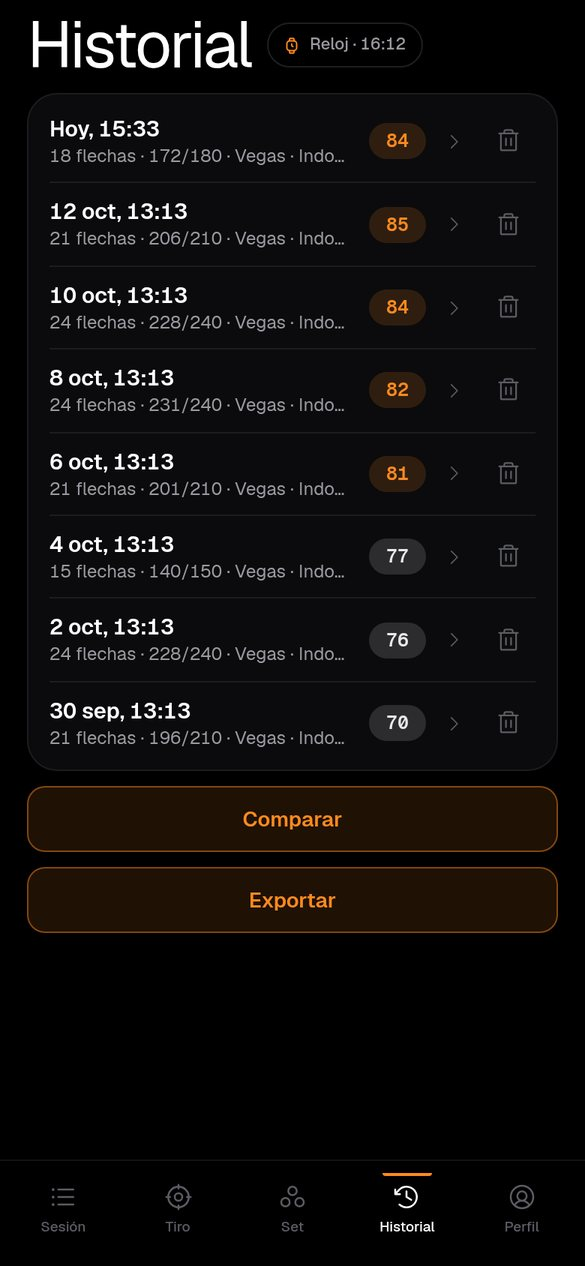
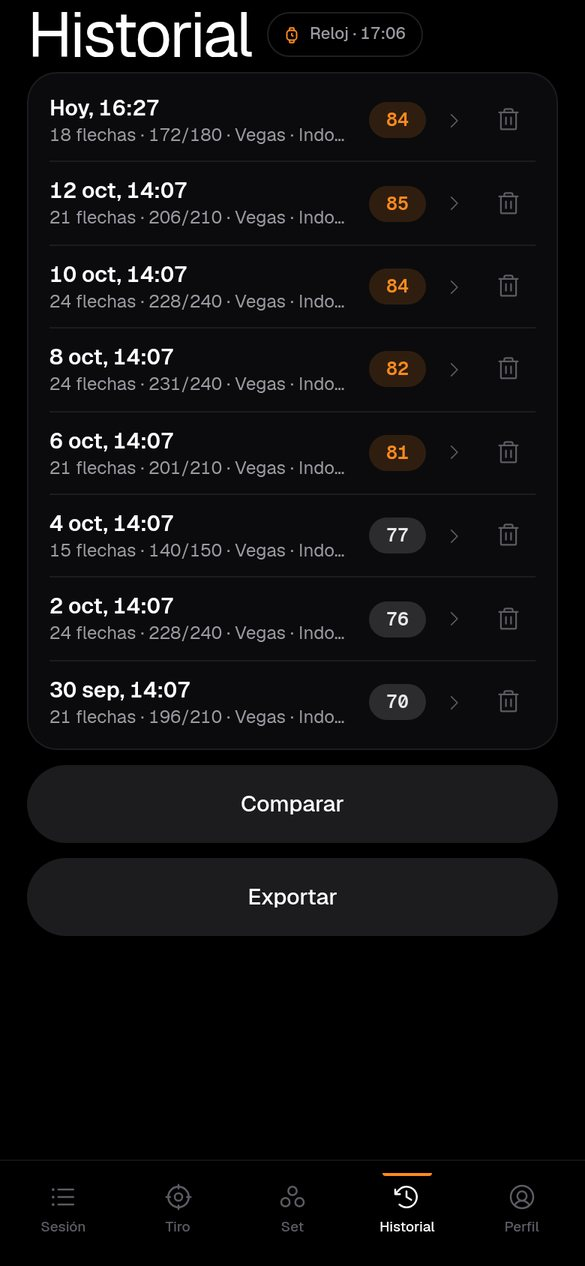
ArcheryWatch: Distribución sin % y a tamaño completo, filas de set sin Puntuable y valor en anillo fino, botones sólidos grises, Actual en la fila de la fecha — 4.52 (110)

diff --git a/mobile/index.html b/mobile/index.html
@@ -44,8 +44,10 @@
 
   /* Cabecera */
   header { display:flex; flex-direction:column; align-items:stretch; gap:0; padding:8px 18px 6px; flex-shrink:0; }
-  header > small { display:block; font-size:11px; font-weight:500; letter-spacing:.14em; text-transform:uppercase; color:var(--txt-2); margin:0 0 4px; line-height:1.2; }
-  header > small:empty { display:none; }
+  .dateRow { display:flex; align-items:center; justify-content:space-between; gap:10px; margin:0 0 6px; }
+  .dateRow:has(> small:empty):has(> #returnCurrent[style*="none"]) { display:none; }
+  .dateRow small { display:block; font-size:11px; font-weight:500; letter-spacing:.14em; text-transform:uppercase; color:var(--txt-2); line-height:1.2; }
+  .dateRow small:empty { display:none; }
   .headRow { display:flex; align-items:center; gap:10px; min-height:30px; }
   header h1 { flex:0 1 auto; min-width:0; margin:0; font-size:43px; font-weight:400; letter-spacing:-.03em; line-height:30px; height:30px; display:flex; align-items:center; }
   header h1 span { display:block; line-height:30px; height:30px; white-space:nowrap; overflow:hidden; text-overflow:ellipsis; }
@@ -68,10 +70,10 @@
                   margin-right:7px; vertical-align:1px; }
   @media (prefers-reduced-motion:no-preference) { #live::before { animation:pulse 2s ease-in-out infinite; } }
   @keyframes pulse { 50% { opacity:.35; } }
-  #returnCurrent { display:none; align-self:flex-start; margin:0 16px 10px; background:var(--surface-2); border:1px solid var(--line-2);
-                   border-radius:12px; color:var(--txt); font-size:13px; font-weight:500; padding:8px 12px; }
+  #returnCurrent { display:none; align-items:center; flex-shrink:0; height:30px; box-sizing:border-box; margin:0; background:transparent; border:1px solid var(--line-2);
+                   border-radius:999px; color:var(--txt); font-size:11px; font-weight:500; line-height:1; padding:0 11px 0 9px; white-space:nowrap; }
   #returnCurrent { --icon:var(--i-back); }
-  #returnCurrent::before { content:""; display:inline-block; width:14px; height:14px; margin-right:7px; vertical-align:-2px; background:var(--acc);
+  #returnCurrent::before { content:""; display:inline-block; width:13px; height:13px; margin-right:6px; vertical-align:-2px; background:var(--acc);
     -webkit-mask:var(--icon) center/contain no-repeat; mask:var(--icon) center/contain no-repeat; }
 
   /* Contenido */
@@ -131,11 +133,12 @@
   #play { --icon:var(--i-play); }
   #play.playing { --icon:var(--i-stop); background:var(--surface-2); color:var(--acc); border:1px solid var(--line-2); box-shadow:none; }
   #play::before { content:""; width:15px; height:15px; background:currentColor; -webkit-mask:var(--icon) center/contain no-repeat; mask:var(--icon) center/contain no-repeat; }
-  .btnSecondary, #calib { display:flex; align-items:center; justify-content:center; width:100%; min-height:44px; background:var(--acc-soft);
-    color:var(--acc); border:1px solid var(--acc-line); border-radius:12px; font-size:14px; font-weight:600; }
-  .deleteAction { background:none; color:var(--txt-3); border:1px solid var(--line); border-radius:12px; padding:12px; font-size:13px; font-weight:500; }
+  .btnSecondary, #calib { display:flex; align-items:center; justify-content:center; gap:8px; width:100%; min-height:52px; background:#1c1c1e;
+    color:#fff; border:none; border-radius:26px; font-size:15px; font-weight:500; letter-spacing:-.005em; box-shadow:none; }
+  .btnSecondary:active, #calib:active { background:#2a2a2d; }
+  .deleteAction { background:none; color:var(--txt-3); border:1px solid var(--line); border-radius:26px; min-height:52px; padding:0 18px; font-size:14px; font-weight:500; }
   .deleteAction:active { color:var(--danger); border-color:rgba(239,90,90,.4); }
-  .deleteSession { flex-shrink:0; width:36px; height:36px; padding:0; display:grid; place-items:center; border-color:transparent; }
+  .deleteSession { flex-shrink:0; width:36px; height:36px; min-height:0; border-radius:50%; padding:0; display:grid; place-items:center; border-color:transparent; }
   .deleteSession svg { width:18px; height:18px; }
 
   /* Métricas */
@@ -269,10 +272,11 @@
   .mini { display:flex; gap:3px; align-items:flex-end; height:22px; min-width:0; }
   .mini i { width:7px; border-radius:2px; background:rgba(255,255,255,.28); }
   .setVal { font:600 28px/1 var(--num); text-align:right; }
-  .trendRow { width:100%; display:grid; grid-template-columns:minmax(52px,max-content) minmax(0,1fr) auto 44px; gap:8px; align-items:center; min-height:48px; padding:10px 14px; background:none; border:0; border-top:1px solid var(--line); text-align:left; }
+  .trendRow { width:100%; display:grid; grid-template-columns:minmax(52px,max-content) minmax(0,1fr) auto 44px; gap:8px; align-items:center; min-height:44px; padding:8px 14px; background:none; border:0; border-top:1px solid var(--line); text-align:left; }
   .trendRow:last-child { border-bottom:0; }
-  .trendLabel { font-size:13px; }
-  .trendLabel small { display:block; color:var(--txt-3); font-size:11px; }
+  .trendLabel { display:flex; align-items:center; gap:8px; font:500 12px/1 var(--font); color:var(--txt-3); font-variant-numeric:tabular-nums; }
+  .trendLabel .trendScore { width:24px; height:24px; box-sizing:border-box; border-radius:50%; border:1px solid var(--line-2); display:grid; place-items:center; font:600 13px/1 var(--num); color:var(--txt-2); }
+  .trendLabel .trendScore.hi { color:var(--acc); border-color:color-mix(in srgb, var(--acc) 45%, transparent); }
   .trendScore { font-family:var(--num); font-size:16px; font-weight:600; color:var(--acc); }
   .trendMeta { font:400 11.5px var(--font); color:var(--txt-3); text-align:right; white-space:nowrap; }
   .trendRow[aria-current="true"] .trendLabel { color:var(--txt); }
@@ -495,7 +499,7 @@
 </head>
 <body>
 <header>
-  <small id="subtitle"></small>
+  <div class="dateRow"><small id="subtitle"></small><button id="returnCurrent" onclick="backToCurrent()">Actual</button></div>
   <div class="headRow">
   <h1><span id="title">Sesión</span></h1>
   <span id="link" data-state="off">Sin reloj</span>
@@ -506,7 +510,6 @@
   </div>
 </header>
 <span id="live">En vivo</span>
-<button id="returnCurrent" onclick="backToCurrent()">Actual</button>
 <main id="vShot">
   <div class="empty emptyState"><svg viewBox="0 0 256 256" fill="currentColor" aria-hidden="true"><path d="M232,120h-8.34A96.14,96.14,0,0,0,136,32.34V24a8,8,0,0,0-16,0v8.34A96.14,96.14,0,0,0,32.34,120H24a8,8,0,0,0,0,16h8.34A96.14,96.14,0,0,0,120,223.66V232a8,8,0,0,0,16,0v-8.34A96.14,96.14,0,0,0,223.66,136H232a8,8,0,0,0,0-16Zm-96,87.6V200a8,8,0,0,0-16,0v7.6A80.15,80.15,0,0,1,48.4,136H56a8,8,0,0,0,0-16H48.4A80.15,80.15,0,0,1,120,48.4V56a8,8,0,0,0,16,0V48.4A80.15,80.15,0,0,1,207.6,120H200a8,8,0,0,0,0,16h7.6A80.15,80.15,0,0,1,136,207.6ZM128,88a40,40,0,1,0,40,40A40,40,0,0,0,128,88Zm0,64a24,24,0,1,1,24-24A24,24,0,0,1,128,152Z"/></svg><b>Sin flechas</b></div>
   <div class="top3">
@@ -1017,7 +1020,7 @@ function render() {
   if (anim != null && (view !== 'Shot' || playbackKey !== shotViewKey())) stopPlayback();
   ['Shot', 'Set'].forEach(v => document.getElementById('v' + v).dataset.empty = !data?.shots.length);
   document.getElementById('deleteCurrent').hidden = !data?.shots.length;
-  document.getElementById('returnCurrent').style.display = historyMode ? 'block' : 'none';
+  document.getElementById('returnCurrent').style.display = historyMode ? 'inline-flex' : 'none';
   document.getElementById('prev').disabled = document.getElementById('next').disabled = !data?.shots.length;
   document.getElementById('setbar').innerHTML = '';
   const setHead = document.getElementById('setHead');
@@ -2349,12 +2352,12 @@ function drawTrend(S) {
   const rows=S.map((g,si)=>{const name=setLabel(S,si);return g.map((i,j)=>{
     const s=data.shots[i], v=values[i], valid=Number.isFinite(v), label=(s.candidate?'Candidato':'Flecha')+' '+(j+1);
     const marked=!s.candidate && s.result && Score.points(s.result.value) != null ? s.result.value : '';
-    const scoreBit=anyValue ? `<b class="trendScore">${marked || '·'}</b>` : '';
+    const scoreBit=anyValue ? `<b class="trendScore${/^(X|10|11)$/.test(marked) ? ' hi' : ''}">${marked || '·'}</b>` : '';
     const sec = s.draw_ms != null ? esNum((s.draw_ms + 1200) / 1000, 1) + ' s' : '';
     const rad = aimRadius(s); const radTxt = rad == null ? '' : esNum(rad, 1) + '°';
     const meta = [sec, radTxt].filter(Boolean).join(' · ');
     const phaseName = s.phase === 'warm' ? 'Calentamiento' : s.phase === 'score' ? 'Puntuable' : '';
-    const phaseBit = phaseName ? `<small>${phaseName}</small>` : '';
+    const phaseBit = '';
     const tAttr = Number.isFinite(Number(s.t_ms)) ? ` data-t="${Number(s.t_ms)}"` : '';
     const aria=`${name}, ${label}${marked ? ', valor ' + marked : ''}${phaseName ? ', ' + phaseName : ''}, ${valid ? Math.round(v) + (candidates ? ' mG' : ' de estabilidad') : 'sin estabilidad'}`;
     return `<button class="trendRow" data-shot="${i}"${tAttr} aria-current="${i===cur}" aria-label="${aria}" style="--c:${barOf(v)};--n:${numOf(v)}">`+

diff --git a/mobile/studio.js b/mobile/studio.js
@@ -2333,7 +2333,6 @@ function studioDistLegend(ctx, x, y, w, dist, S, perRow, rowH, px) {
     ctx.fill();
     const kw = studioText(ctx, d.v, lx + 23, ly, studioF(500, Math.round(px * 0.72)), S.soft);
     const cw = studioText(ctx, String(d.n), lx + 23 + kw + 9, ly, S.num(px), S.ink);
-    if (cellW > 175) studioText(ctx, Math.round(d.n / total * 100) + '%', lx + 23 + kw + cw + 12, ly, studioF(500, Math.round(px * 0.62)), S.soft);
   });
 }
 function studioDonut(ctx, cx, cy, R, lw, dist, S) {
@@ -2479,29 +2478,31 @@ const studioWidgetPaint = {
       return;
     }
     if (variant === 'donut') {
-      const D = Math.min(b.h - (top - b.y) - 8, b.size === 'wide' ? b.w * 0.34 : b.w * 0.48);
-      const R = D / 2, lw = Math.max(12, R * 0.22);
-      const cx = b.x + R, cy = top + 10 + R;
+      const avail = b.y + b.h - top - 4;
+      const D = Math.max(80, Math.min(avail, b.w * (b.size === 'wide' ? 0.42 : 0.5)));
+      const R = D / 2, lw = Math.max(12, R * 0.2);
+      const cx = b.x + R, cy = top + avail / 2;
       studioDonut(ctx, cx, cy, R - lw / 2, lw, dist, S);
-      const npx = Math.round(R * 0.58);
-      studioText(ctx, String(total), cx, cy + npx * 0.16, S.num(npx), S.ink, 0, 'center');
-      studioText(ctx, 'FLECHAS', cx, cy + npx * 0.16 + Math.max(24, R * 0.26), studioF(500, Math.max(17, Math.round(R * 0.15))), S.soft, 2.5, 'center');
-      const cols = b.size === 'wide' && dist.length > 3 ? 2 : 1;
-      const perCol = Math.ceil(dist.length / cols);
-      const lx = b.x + D + (b.size === 'wide' ? 40 : 28);
-      const colW = (b.x + b.w - lx) / cols;
-      const rowH = Math.min(44, (D - 4) / perCol);
-      const px = Math.round(Math.min(32, rowH * 0.62));
-      const y0 = cy - (perCol - 1) * rowH / 2 + px * 0.32;
+      const npx = Math.round(R * 0.62);
+      studioText(ctx, String(total), cx, cy + npx * 0.2, S.num(npx), S.ink, 0, 'center');
+      studioText(ctx, 'FLECHAS', cx, cy + npx * 0.2 + Math.max(22, R * 0.28), studioF(500, Math.max(15, Math.round(R * 0.14))), S.soft, 2.5, 'center');
+      const lx = b.x + D + Math.max(28, b.w * 0.06);
+      const room = b.x + b.w - lx;
+      const n = Math.max(1, dist.length);
+      const cellW = room / n;
+      const px = Math.round(Math.max(26, Math.min(D * 0.42, cellW * 0.5, 64)));
+      const kpx = Math.round(Math.max(15, px * 0.42));
+      const blockH = kpx + 12 + px * 0.74;
+      const ky = cy - blockH / 2 + kpx * 0.8, vy = cy + blockH / 2;
       dist.forEach((d, i) => {
-        const x = lx + Math.floor(i / perCol) * colW, y = y0 + (i % perCol) * rowH;
+        const x = lx + cellW * i;
+        const dot = Math.max(4, kpx * 0.3);
         ctx.beginPath();
-        ctx.arc(x + 5, y - px * 0.32, 5, 0, Math.PI * 2);
+        ctx.arc(x + dot, ky - kpx * 0.33, dot, 0, Math.PI * 2);
         ctx.fillStyle = studioDistTone(d.v, S.acc, S.acc2, S.base);
         ctx.fill();
-        const kw = studioText(ctx, d.v, x + 18, y, studioF(500, Math.round(px * 0.78)), S.soft);
-        const cw = studioText(ctx, String(d.n), x + 18 + Math.max(28, kw) + 12, y, S.num(px), S.ink);
-        studioText(ctx, Math.round(d.n / Math.max(1, total) * 100) + '%', x + 18 + Math.max(28, kw) + 12 + cw + 10, y, studioF(500, Math.round(px * 0.68)), S.soft);
+        studioText(ctx, d.v, x + dot * 2 + 8, ky, studioF(600, kpx), S.soft, 1);
+        studioText(ctx, String(d.n), x, vy, S.num(px), d.v === 'X' || d.v === '11' ? S.acc : S.ink);
       });
       return;
     }

diff --git a/mobile/sw.js b/mobile/sw.js
@@ -1,5 +1,5 @@
 // ArcheryWatch service worker: app shell cache-first, sesiones network-first.
-const C = 'aw-v115';
+const C = 'aw-v116';
 self.addEventListener('install', e => { self.skipWaiting(); e.waitUntil(caches.open(C).then(c =>
   c.addAll(['./', './index.html', './session-model.js', './trace-geom.js', './backup.js', './score.js', './compare.js', './goals.js', './training.js', './studio.js', './manifest.json', './icon-192.png', './icon-512.png', './fonts/Geist-Variable.woff2', './fonts/GeistMono-Variable.woff2', './fonts/BarlowCondensed-600.woff2', './photos/campo.js', './photos/diana.js', './photos/visor.js']))); });
 self.addEventListener('activate', e => e.waitUntil(caches.keys().then(ks =>

diff --git a/android/src/com/archerywatch/app/LiveService.java b/android/src/com/archerywatch/app/LiveService.java
@@ -185,7 +185,7 @@ public class LiveService extends Service {
         Map<String,Object> values=new java.util.HashMap<>();values.put("status",STATUS);
         values.put("pending",inbox==null?0:inbox.size());values.put("commands",outbox==null?0:outbox.size());
         values.put("connected", STATUS != null && STATUS.contains("listo"));
-        values.put("version",109);
+        values.put("version",110);
         if(instance!=null){values.put("receivedAt",instance.diagnostics.getLong("receivedAt",0));values.put("kind",instance.diagnostics.getString("kind",""));}
         return MainActivity.toJson(values);
     }
